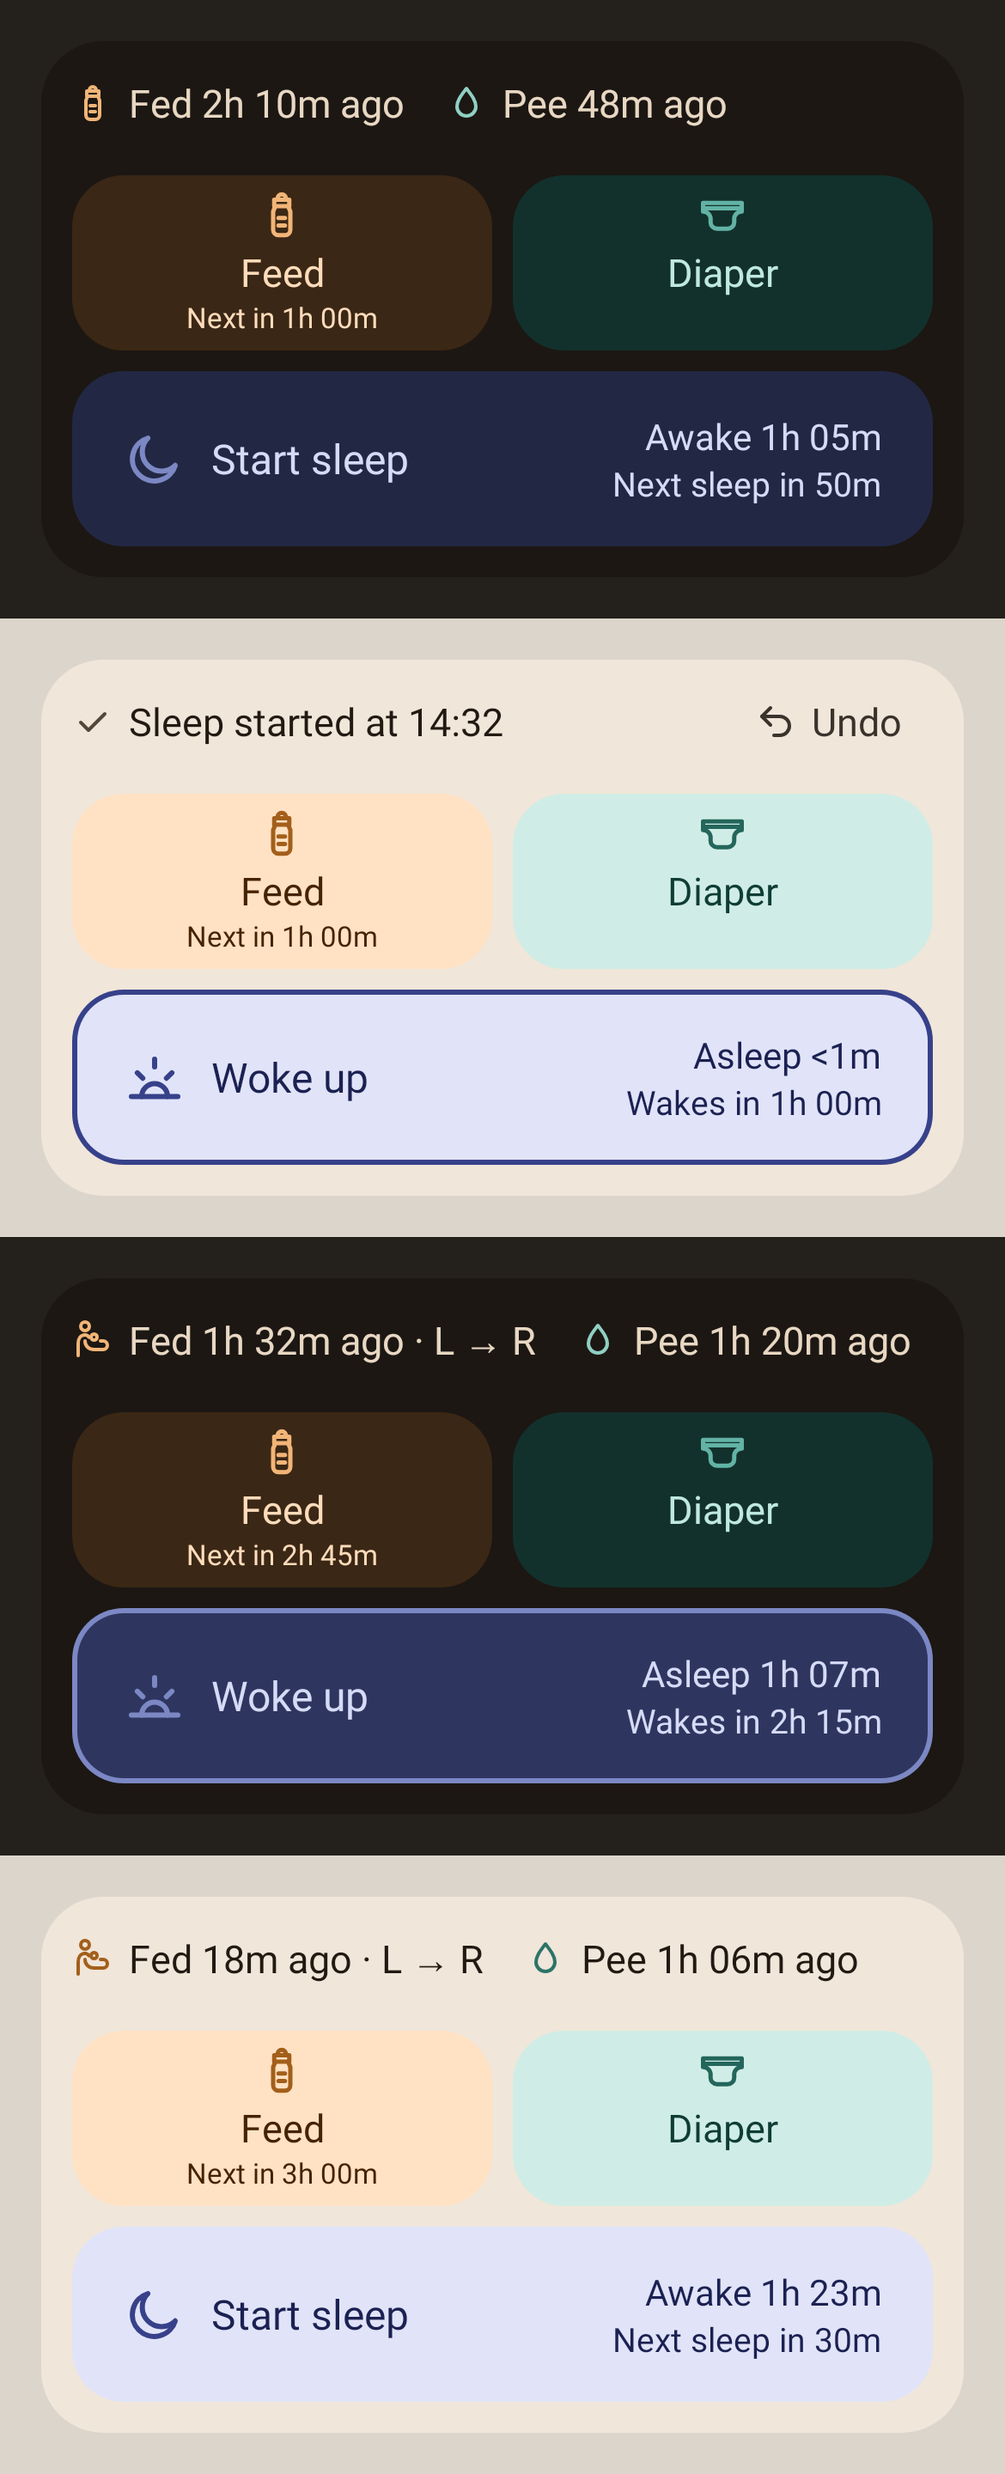
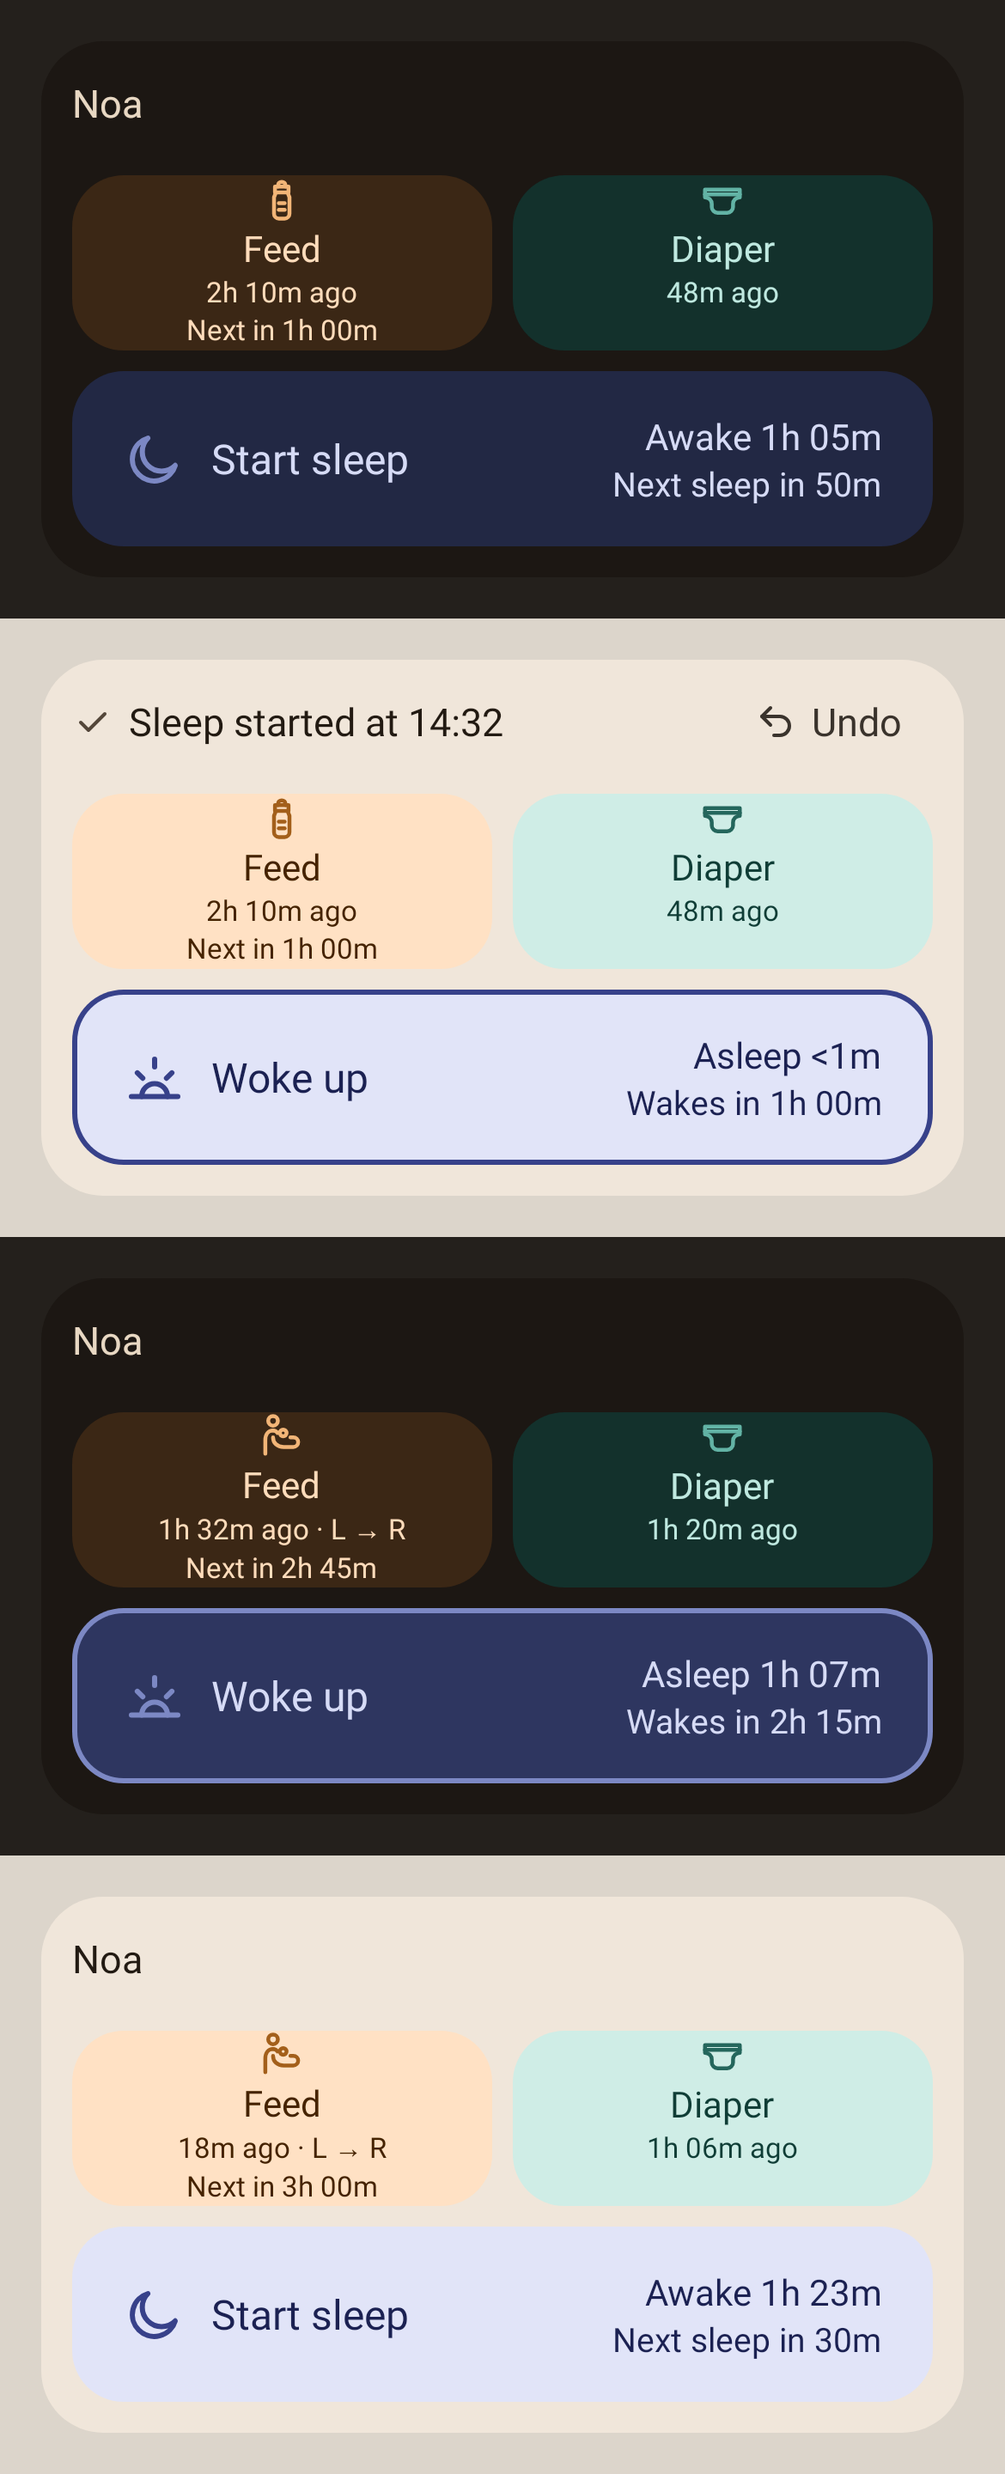
Widgets: the times sit in their buttons, as on the watch
The 4x2 and cover widgets showed "Fed 2h 10m ago · Pee 48m ago" in the
row above the buttons, while the sleep status sat in its toggle. Now each
button carries its own: Feed and Diaper show "2h 10m ago" and the
estimate under their label, the sleep toggle keeps "Awake 1h 05m". The
row above names the baby (or shows the receipt with Undo, or a notice);
on a narrow widget the sleep status goes under the toggle's label.

Claude-Session: https://claude.ai/code/session_01KD7sVkdEm1uBzrBmRurbwq

diff --git a/app/src/main/kotlin/com/ffmathy/pooparazzi/phone/widget/LogWidget.kt b/app/src/main/kotlin/com/ffmathy/pooparazzi/phone/widget/LogWidget.kt
@@ -152,66 +152,20 @@ private fun StatusRow(
         when {
             notice != null -> NoticeLine(notice, strings, colors)
             receipt != null -> ReceiptLine(receipt, baby, strings, colors, layout, measure)
-            else -> StatusFacts(snapshot, baby, strings, colors, layout, measure)
+            else -> StatusTitle(snapshot, baby, colors)
         }
     }
 }
 
 /**
- * Idle and asleep: "Fed 2h 10m ago" and "Pee 48m ago" (the diaper only when both fit). With two or more babies the row
- * starts with the [baby]'s label, and the facts that no longer fit beside it are dropped.
+ * Idle and asleep: the baby's name, as the watch's title (the label with two or more babies; nothing when unnamed). The
+ * times sit in the buttons they belong to, as on the watch: "2h 10m ago" in Feed and Diaper, "Awake 1h 05m" in the
+ * sleep toggle.
  */
 @Composable
-private fun RowScope.StatusFacts(
-    snapshot: WidgetSnapshot,
-    baby: String?,
-    strings: WidgetStrings,
-    colors: WidgetColors,
-    layout: LogLayout,
-    measure: WidgetMeasure,
-) {
-    fun factWidth(text: String) = FactIconWidth + measure.width(text, FactSize)
-    val sleepStart = snapshot.runningSleepStart
-    val lastFeed = snapshot.lastFeed
-    var room = layout.rowWidth
-    if (baby != null) {
-        BabyLabel(baby, colors)
-        room -= measure.width(baby, FactSize) + FactGap
-        Spacer(GlanceModifier.width(FactGap))
-    }
-    when {
-        // Narrow: the toggle row has no room for "Asleep 1h 07m", so it moves up here (DESIGN_SPEC §10.11).
-        sleepStart != null && !layout.wide -> {
-            val text = strings.asleepFor(sleepStart, snapshot.now)
-            if (baby == null || factWidth(text) <= room) Fact(XDrawables.sleepRunning, colors.sleep.strong, text, colors)
-        }
-        else -> {
-            val feedText = lastFeed?.let { strings.fedAgo(it, snapshot.now) } ?: strings.noFeeds()
-            // Without a name the feed fact always shows (as before several babies); beside one only when it fits.
-            val feedShown = baby == null || factWidth(feedText) <= room
-            if (feedShown) {
-                Fact(XDrawables.forFeedType(lastFeed?.feedType), colors.feed.strong, feedText, colors)
-                room -= factWidth(feedText) + FactGap
-            }
-            val diaper = snapshot.lastDiaper
-            val kind = diaper?.let { DiaperKind.of(it.pee, it.poop) }
-            if (feedShown && diaper != null && kind != null) {
-                val diaperText = strings.diaperAgo(kind, diaper.startMillis, snapshot.now)
-                if (factWidth(diaperText) <= room) {
-                    Spacer(GlanceModifier.width(FactGap))
-                    val icon = if (kind == DiaperKind.BOTH) colors.bothIcon else XDrawables.forDiaperKind(kind)
-                    Fact(icon, if (kind == DiaperKind.BOTH) null else colors.diaper(kind).strong, diaperText, colors)
-                }
-            }
-        }
-    }
-}
-
-@Composable
-private fun Fact(icon: Int, color: Color?, text: String, colors: WidgetColors) {
-    WidgetIcon(icon, color, 16.dp)
-    Spacer(GlanceModifier.width(6.dp))
-    WidgetText(text, colors.onSurface, FactSize)
+private fun StatusTitle(snapshot: WidgetSnapshot, baby: String?, colors: WidgetColors) {
+    val name = baby ?: snapshot.baby.name.trim().takeIf { it.isNotEmpty() } ?: return
+    BabyLabel(name, colors)
 }
 
 /** The current baby's label at the start of the status row (two or more babies), in the facts' type (as measured). */
@@ -304,23 +258,40 @@ private fun LogButtons(
         listOf(feedLabel, diaperLabel).all { measure.fits(it, LabelSize, layout.buttonWidth - 8.dp) } -> FaceStyle.Regular
         else -> FaceStyle.Compact
     }
-    // What the last week expects next (V1_ADDITIONS §9), under the label of the regular face only. When either button
-    // has a line, both keep its room, so the icons stay aligned.
-    val feedNext = snapshot.feedForecast?.takeIf { style == FaceStyle.Regular }
-    val poopNext = snapshot.poopForecast?.takeIf { style == FaceStyle.Regular }
-    val sub = feedNext != null || poopNext != null
-    fun described(@StringRes name: Int, spoken: String?) =
-        strings.forBaby(strings.string(name), baby).let { if (spoken == null) it else strings.string(R.string.spoken_pair, it, spoken) }
+    // Under the label of the regular face, as the watch's rows: the time since the last one ("2h 10m ago") and what the
+    // last week expects next ("Next in 55m", V1_ADDITIONS §9). Both buttons keep the same number of lines, so their icons
+    // stay aligned.
+    val regular = style == FaceStyle.Regular
+    val lastFeed = snapshot.lastFeed?.takeIf { regular }
+    val lastDiaper = snapshot.lastDiaper?.takeIf { regular }
+    val feedNext = snapshot.feedForecast?.takeIf { regular }
+    val poopNext = snapshot.poopForecast?.takeIf { regular }
+    val feedLines = listOfNotNull(lastFeed?.let { strings.fedAgo(it, snapshot.now) }, feedNext?.let { strings.feedForecast(it, snapshot.now) })
+    val diaperLines = listOfNotNull(lastDiaper?.let { strings.ago(it.startMillis, snapshot.now) }, poopNext?.let { strings.poopForecast(it, snapshot.now) })
+    val lines = maxOf(feedLines.size, diaperLines.size)
+    fun padded(sub: List<String>) = sub + List(lines - sub.size) { "\u00A0" }
+    fun described(@StringRes name: Int, vararg spoken: String?) =
+        spoken.filterNotNull().fold(strings.forBaby(strings.string(name), baby)) { said, part -> strings.string(R.string.spoken_pair, said, part) }
     Row(modifier) {
         val cell = GlanceModifier.defaultWeight().fillMaxHeight()
         val feed = colors.feed
-        SheetButton(HomeLaunch.Feed, feed, described(R.string.widget_cd_log_feed, feedNext?.let(strings::feedForecastSpoken)), cell) {
-            ButtonFace(XDrawables.feed, feed.strong, feedLabel, feed.onContainer, style, sub = feedNext?.let { strings.feedForecast(it, snapshot.now) } ?: "\u00A0".takeIf { sub })
+        val feedSaid = described(
+            R.string.widget_cd_log_feed,
+            lastFeed?.let { strings.agoSpoken(CoreR.string.spoken_last_feed, it.startMillis, snapshot.now) },
+            feedNext?.let(strings::feedForecastSpoken),
+        )
+        SheetButton(HomeLaunch.Feed, feed, feedSaid, cell) {
+            ButtonFace(XDrawables.forFeedType(snapshot.lastFeed?.feedType), feed.strong, feedLabel, feed.onContainer, style, sub = padded(feedLines))
         }
         Spacer(GlanceModifier.width(8.dp))
         val diaper = colors.diaper
-        SheetButton(HomeLaunch.Diaper, diaper, described(R.string.widget_cd_log_diaper, poopNext?.let(strings::poopForecastSpoken)), cell) {
-            ButtonFace(XDrawables.diaper, diaper.strong, diaperLabel, diaper.onContainer, style, sub = poopNext?.let { strings.poopForecast(it, snapshot.now) } ?: "\u00A0".takeIf { sub })
+        val diaperSaid = described(
+            R.string.widget_cd_log_diaper,
+            lastDiaper?.let { strings.agoSpoken(CoreR.string.spoken_last_diaper, it.startMillis, snapshot.now) },
+            poopNext?.let(strings::poopForecastSpoken),
+        )
+        SheetButton(HomeLaunch.Diaper, diaper, diaperSaid, cell) {
+            ButtonFace(XDrawables.diaper, diaper.strong, diaperLabel, diaper.onContainer, style, sub = padded(diaperLines))
         }
     }
 }
@@ -339,22 +310,28 @@ private val CompactTopSpace = 10.dp
  * the regular face's.
  */
 @Composable
-private fun ButtonFace(icon: Int, iconColor: Color?, label: String, labelColor: Color, style: FaceStyle, sub: String? = null) {
+private fun ButtonFace(icon: Int, iconColor: Color?, label: String, labelColor: Color, style: FaceStyle, sub: List<String> = emptyList()) {
     Column(horizontalAlignment = Alignment.CenterHorizontally, verticalAlignment = Alignment.CenterVertically) {
         if (style == FaceStyle.Compact) Spacer(GlanceModifier.height(CompactTopSpace))
-        // With the forecast line the face tightens (icon 20, gap 2), so the three lines keep their padding in the button.
-        WidgetIcon(icon, iconColor, if (style == FaceStyle.Compact || sub != null) 20.dp else 24.dp)
+        // With lines under the label the face tightens (icon 20 then 18, gap 2 then 0, label 14 sp with two), so every
+        // line keeps its padding in the button.
+        val iconSize = when {
+            sub.size >= 2 -> 18.dp
+            style == FaceStyle.Compact || sub.isNotEmpty() -> 20.dp
+            else -> 24.dp
+        }
+        WidgetIcon(icon, iconColor, iconSize)
         if (style != FaceStyle.IconOnly) {
-            Spacer(GlanceModifier.height(if (style == FaceStyle.Compact) 0.dp else if (sub != null) 2.dp else 6.dp))
+            Spacer(GlanceModifier.height(if (style == FaceStyle.Compact || sub.size >= 2) 0.dp else if (sub.isNotEmpty()) 2.dp else 6.dp))
             WidgetText(
                 text = label,
                 color = labelColor,
-                size = if (style == FaceStyle.Compact) 13.sp else LabelSize,
+                size = if (style == FaceStyle.Compact) 13.sp else if (sub.size >= 2) 14.sp else LabelSize,
                 maxLines = 2,
                 align = TextAlign.Center,
                 modifier = GlanceModifier.padding(horizontal = 4.dp),
             )
-            if (sub != null) WidgetText(sub, labelColor, 11.sp, maxLines = 1, align = TextAlign.Center)
+            sub.forEach { WidgetText(it, labelColor, 11.sp, maxLines = 1, align = TextAlign.Center, modifier = GlanceModifier.padding(horizontal = 4.dp)) }
         }
     }
 }
@@ -408,7 +385,16 @@ private fun SleepToggleRow(icon: Int, label: String, status: String?, forecast: 
     ) {
         WidgetIcon(icon, sleep.strong, 24.dp)
         Spacer(GlanceModifier.width(10.dp))
-        WidgetText(label, sleep.onContainer, 16.sp)
+        if (!layout.wide && status != null) {
+            // Narrow: no room at the end, so the status goes under the label (still in the toggle, as Feed's and
+            // Diaper's times are in theirs).
+            Column {
+                WidgetText(label, sleep.onContainer, 16.sp)
+                WidgetText(status, sleep.onContainer, 13.sp, maxLines = 1)
+            }
+        } else {
+            WidgetText(label, sleep.onContainer, 16.sp)
+        }
         if (layout.wide && status != null) {
             Spacer(GlanceModifier.width(12.dp))
             Spacer(GlanceModifier.defaultWeight())

diff --git a/app/src/test/kotlin/com/ffmathy/pooparazzi/phone/WidgetBabiesTest.kt b/app/src/test/kotlin/com/ffmathy/pooparazzi/phone/WidgetBabiesTest.kt
@@ -66,26 +66,28 @@ class WidgetBabiesTest {
         val twins = render(DpSize(358.dp, 208.dp)) { LogWidgetContent(WidgetSamples.twins(night = true)) }
         val texts = twins.texts()
         assertEquals("the row starts with the name", "Noa", texts.first())
-        assertTrue("the feed still fits beside it: $texts", texts.any { it.startsWith("Fed 2h 10m ago") })
+        // The times are in their buttons, as on the watch: never repeated in the row above.
+        assertEquals("Feed and its time since: $texts", listOf("Feed", "2h 10m ago"), texts.subList(1, 3))
 
         val one = render(DpSize(358.dp, 208.dp)) { LogWidgetContent(WidgetSamples.idle(night = true)) }
-        assertFalse("one baby: no name in the row", "Noa" in one.texts())
+        assertEquals("one baby: the row names the baby, as the watch's title", "Noa", one.texts().first())
     }
 
     @Test
-    fun aNarrowWidgetDropsFactsBeforeTheName() {
+    fun aNarrowWidgetKeepsTheTimesInTheirButtons() {
         val narrow = render(DpSize(250.dp, 190.dp)) { LogWidgetContent(WidgetSamples.twins(night = false)) }
         val texts = narrow.texts()
         assertEquals("Noa", texts.first())
-        assertFalse("no room for the diaper beside the name and the feed: $texts", texts.any { it.startsWith("Pee ") })
+        // The sleep status goes under "Start sleep" in the toggle, not up into the row.
+        assertEquals(texts.toString(), listOf("Start sleep", "Awake 1h 05m"), texts.takeLast(2))
     }
 
     @Test
     fun bothWidgetsNameTheBabyToTalkBack() {
         val log = render(DpSize(358.dp, 208.dp)) { LogWidgetContent(WidgetSamples.twins(night = true)) }.descriptions()
-        assertTrue(log.toString(), "Log diaper for Noa" in log)
-        // The feed button goes on with what the week expects next (V1_ADDITIONS §9).
-        assertTrue(log.toString(), log.any { it.startsWith("Log feed for Noa") })
+        // Each button goes on with the time since the last one and what the week expects next (V1_ADDITIONS §9).
+        assertTrue(log.toString(), "Log diaper for Noa, Last diaper 48 minutes ago" in log)
+        assertTrue(log.toString(), "Log feed for Noa, Last feed 2 hours 10 minutes ago, next feed expected around 15:30" in log)
         assertTrue(log.toString(), log.any { it.startsWith("Start sleep for Noa") })
 
         val quick = render(DpSize(171.dp, 100.dp)) { QuickWidgetContent(WidgetSamples.twins(night = true)) }.descriptions()

diff --git a/app/src/main/kotlin/com/ffmathy/pooparazzi/phone/widget/WidgetUi.kt b/app/src/main/kotlin/com/ffmathy/pooparazzi/phone/widget/WidgetUi.kt
@@ -105,20 +105,22 @@ internal class WidgetStrings(private val context: Context, private val zone: Zon
     private fun atTime(label: String, millis: Long): String = string(CoreR.string.receipt_at_time, label, time(millis))
 
     /**
-     * The last occurrences relative to [now], as the watch shows them: "Fed 2h 10m ago", "Pee 48m ago", "Asleep 1h 07m",
-     * "Awake 1h 05m". The widget does not tick: [WidgetUpdater] redraws it every minute.
+     * The last occurrences relative to [now], as the watch shows them: "2h 10m ago" in the Feed and Diaper buttons,
+     * "Asleep 1h 07m" / "Awake 1h 05m" in the sleep toggle. The widget does not tick: [WidgetUpdater] redraws it every
+     * minute.
      */
-    private fun ago(label: String, millis: Long, now: Long): String =
-        string(R.string.join_space, label, relative.ago(clockDurationMillis(millis, now)))
+    fun ago(millis: Long, now: Long): String = relative.ago(clockDurationMillis(millis, now))
+
+    /** TalkBack: "last feed 2 hours 10 minutes ago" ([label] is the spoken lead, "last feed"). */
+    fun agoSpoken(@StringRes label: Int, millis: Long, now: Long): String =
+        string(R.string.join_space, string(label), relative.agoSpoken(clockDurationMillis(millis, now)))
 
     private fun lasting(label: String, millis: Long, now: Long): String =
         string(R.string.join_space, label, duration.format(clockDurationMillis(millis, now)))
 
-    /** "Fed 2h 10m ago", plus the breast order " · L → R" when one was recorded. */
-    fun fedAgo(feed: Entry, now: Long): String = ago(string(CoreR.string.status_fed), feed.startMillis, now) +
+    /** In the Feed button: "2h 10m ago", plus the breast order " · L → R" when one was recorded. */
+    fun fedAgo(feed: Entry, now: Long): String = ago(feed.startMillis, now) +
         (feed.breastSide?.takeIf { feed.isBreastfeed }?.let { DOT_SEPARATOR + labels.sideShort(it) } ?: "")
-    fun diaperAgo(kind: DiaperKind, millis: Long, now: Long): String = ago(labels.diaperKindStatus(kind), millis, now)
-    fun noFeeds(): String = string(R.string.lamp_no_feed)
     fun asleepFor(millis: Long, now: Long): String = lasting(string(CoreR.string.status_asleep), millis, now)
     fun awakeFor(millis: Long, now: Long): String = lasting(string(CoreR.string.status_awake), millis, now)
 

diff --git a/docs/design/DESIGN_SPEC.md b/docs/design/DESIGN_SPEC.md
@@ -429,8 +429,8 @@ Both widgets use the fixed NIGHT/DAY tokens chosen by the **app's** Appearance (
 
 | Row | Idle | Asleep | Just logged |
 |---|---|---|---|
-| 1 (24, not a separate target) | `feed` 16 + 6 + "Fed 2h 10m ago" labelLarge 15 sp onSurface; 16 gap; `pee` 16 + "Pee 48m ago" | "Fed 1h 32m ago", "Pee 1h 20m ago" | `check` 16 onSurfaceVariant + 6 + "Sleep started at 14:32"; at the end a text button "Undo" (`undo` 16 + 6 + labelLarge 15 sp, primary, 48 dp target, description "Undo sleep start") |
-| 2 (68) | 2 equal buttons, gap 8, r 20; icon 24 at +10, label 15 sp at +40: Feed (FEED colours, opens the Feed sheet), Diaper (DIAPER colours, `diaper`, opens the Diaper sheet) | unchanged | unchanged |
+| 1 (24, not a separate target) | the baby's name, labelLarge 15 sp onSurface (nothing when unnamed); the times are in their buttons | as idle | `check` 16 onSurfaceVariant + 6 + "Sleep started at 14:32"; at the end a text button "Undo" (`undo` 16 + 6 + labelLarge 15 sp, primary, 48 dp target, description "Undo sleep start") |
+| 2 (68) | 2 equal buttons, gap 8, r 20; icon 24 at +10, label 15 sp at +40: Feed (FEED colours, opens the Feed sheet), Diaper (DIAPER colours, `diaper`, opens the Diaper sheet). Under the label, as the watch's rows: "2h 10m ago" (Feed adds " · L → R") and the estimate "Next in 55m" / "Poop in 3h 10m", 11 sp; with two lines the face tightens to icon 18, label 14 sp | unchanged | unchanged |
 | 3 (68) | Sleep toggle, full width, r 20 (as every widget button), SLEEP container, padding 0 20: `sleep` 24 + 10 + "Start sleep" 16 sp SLEEP onContainer; end-aligned "Awake 1h 05m" dataSmall | checked: r 20, SLEEP containerLit, 2 dp SLEEP strong border, `wake` + "Woke up" (name "Woke up, end sleep"); end-aligned "Asleep 1h 07m" (no icon) | unchanged |
 
 - Just logged: nothing else changes. No button moves, relabels or changes colour, and Undo never sits where a log button is. The receipt reverts on the next log or after 10 s.
@@ -1361,7 +1361,7 @@ Swipe-to-reveal Delete uses `AnchoredDraggable` (not `SwipeToDismissBox`). Custo
 
 | Condition | Change |
 |---|---|
-| 4×2 narrower than 320 dp, or font scale ≥ 1.3 | hide the end-aligned "Awake 1h 05m" / "Asleep 1h 07m" in row 3. While asleep, show "Asleep 1h 07m" in row 1 instead. (The guideline 4×2 is 276 dp wide, 252 inside the padding, against the 294 dp row 3 needs) |
+| 4×2 narrower than 320 dp, or font scale ≥ 1.3 | the end-aligned "Awake 1h 05m" / "Asleep 1h 07m" in row 3 moves under the toggle's label (still in the toggle). (The guideline 4×2 is 276 dp wide, 252 inside the padding, against the 294 dp row 3 needs) |
 | 3×1 where a word of "Start sleep" does not fit its button | label "Sleep" (unchecked) / "Woke up" (checked) |
 | 3×1 where any label still does not fit | icon-only buttons with content descriptions "Log feed" / "Log diaper" / "Start sleep" |
 | 3×1 narrower than 180 dp (an old 2×1) | padding 8, gaps 4, so the three 24 dp icons still fit |
